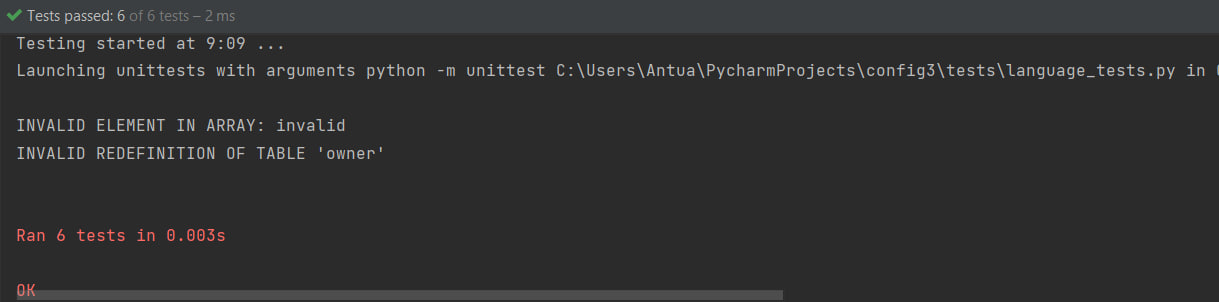
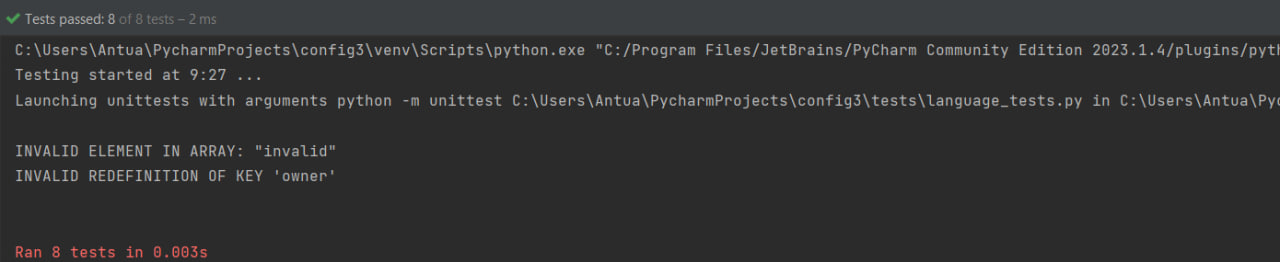
final

diff --git a/readme.md b/readme.md
@@ -8,38 +8,59 @@
 ### Используемые модули и язык программирования
 Использую язык программирования Python версии 3.10
 В качестве модулей, импортируемых в программу, использую
-1. os - для работы с путями.
-2. keyboard - для работы с клавиатурой.
-3. threading - для создания многопоточности.
+1. os - для работы с путями, проверкой существования файла
+2. keyboard - для работы с клавиатурой (учитывания зажатия ctrl+c)
+3. threading - для создания многопоточности (создания отдельного потока ввода cимволов до ctrl+c, так как цикл while фризит консоль).
 4. time - для создания задержек при получении строк от пользователя, чтобы не перегружать цп.
-5. sys - для взаимодействия c аргументами из командной строки и получения строк пользователя.
+5. sys - для взаимодействия c аргументами из командной строки и получения строк пользователя во время многопоточности.
 6. re - для работы над регулярными выражениями.
-7. pprint (функция pformat) - для красивого вида получившегося словаря. 
+7. json (dumps) - для получения красивого вида словаря в формате json
 
 ### Описание команд, функционирование программы
-Пользователь через консоль вводит параметр для программы (путь текстового файла, в который и будет записан итоговый формат), затем до ввода сочетания ctrl+d вводит данные, затем они обрабатываются и выводится результат (при некорректных данных сообщение об ошибке)
-Сам процесс был разделён на 3 этапа.
+Пользователь через консоль вводит параметр для программы (путь текстового файла, в который и будет записан итоговый формат), затем до ввода сочетания ctrl+d вводит данные, которые и будут обрабатываться программой и в конце выводится результат (при некорректных данных (критическая ошибка) соответствующее сообщение об ошибке)
+Если корректный TOML файл невозможно конвертировать в учебный язык, будет выдан полный список причин для этого c указанием проблемного места.
+Сам процесс выполнения программы был разделён на 3 этапа.
 Пробежимся по каждому:
-1. Получение строк от пользователя до нажатия сочетания клавиш(функция read_input(text) параллельно выполняется c частью main)
-2. Парсинг этих данных (функция parse(value) и parse_array(value))
-3. Перевод этих данных в учебный язык (при успешном вводе пользователя в файл). Имеется в виду обработка особенностей учебного языка, которые могут быть несовместимы с корректным TOML файлом.
+1. Получение строк от пользователя до нажатия сочетания клавиш(функция read_input(text), которая параллельно выполняется c частью main)
+2. Парсинг этих данных (функции read_input_after(text) для склеивания строк, parse(value), parse_array(value, dict) и parse_dict(value, dict) для соответствующих разрешённых структур, которые и позволяют создать вложенность)
+3. Перевод полученных данных в учебный язык (при успешном вводе пользователя в файл). Иначе пользователь получит сообщение о всех несоответствиях. Под этой задачей подразумевается обработка особенностей учебного языка, а именно: <br>
+(Имена: [_A-Z][_a-zA-Z0-9]*, <br> а
+значения выбираются из диапазона [Числа, Массивы\*, Словари**)
 
-Примечание: язык TOML это в своём роде язык таблиц, так как все данные воспринимаются как часть какой-то таблицы (по умолчанию существует корневая таблица), поэтому вполне справедливо, что результат на конфигурационном языке это один большой словарь с поправкой на его синтаксис.
-Все функции также обрабатывают случаи, когда аргументы некорректны.
+\* ( значение, значение, значение, ... )<br>
+** {<br>
+ имя = значение,<br>
+ имя = значение,<br>
+ имя = значение,<br>
+ ...<br>
+}<br>
+Объявление же переменной в учебном языке делается вот так: <br>var имя := значение<br>
+Её же вычисление ![имя]<br>
+Примечание: язык TOML это в своём роде язык таблиц, так как все данные воспринимаются как часть какой-то таблицы, поэтому вполне справедливо, что результат на учебном языке это один большой словарь с поправкой на его синтаксис в учебном языке.
+Очевидно, данная программа обрабатывает случаи, когда аргументы некорректны, когда введённые данные не соответствуют TOML.
 ### Тестирование
+Приступим к тестам! <br>
 Итак, пусть пользователь введёт в консоль следующий текст:
 ![example.jpg](example.jpg)
-Возникла ошибка - "конвертирование невозможно", так как на учебный язык невозможно перевести булевые значения, даты и строки. 
-Попытка номер 2:
-![img.png](img.png)
-Возникла ошибка - текст оформлен не в соответствии с языком TOML.
-И наконец, попытка номер 3:
+Возникла ошибка - "преобразование невозможно", так как на учебном языке значения не могут быть строками, а имена начинаться со строчных букв. 
+Исправим указанные ошибки:
+![example2.jpg](example2.jpg)
+Всё действительно так!<br>
+Допустим какую-то ошибку в синтаксисе TOML:
 ![example3.jpg](example3.jpg)
-Следующий текст запишется в файл с окончанием testfile.txt:
-![example4.jpg](example4.jpg)
-Всё так, как и должно быть!
+Это действительно так, словари (в двух своих формах) могут быть записано только в одной строчке), в то время как: 
+![example4.jpg](example4.jpg)<br>
+Да, увы, этот синтаксис не так уж и прост. Например, нельзя переопределять уже объявленные элементы. <br>
+Протестируем размер данных побольше, воспользуемся первым способом записи таблиц(словарей), точечными ключами, вспомним про комментарии:
+<br>Я решил взять пример с https://toml.io/en/
+![example5.jpg](example5.jpg)
+30 ошибок конвертирования - да, плоховатый пример под нашу задачу я подобрал.
+Исправим его, и добавим комментарий в одной линии с текстом:
+![example6.jpg](example6.jpg)
+На изображении представлен ввод данных в середине в консоль (левый угол) и результат в файле (правый угол).
+<br>Результат ровно такой, какой и должен быть!
 ### Тесты
-В папке "tests" хранится файл с расширением .py, содержащий в себе модуль тестирования функций parse(value) и parse_array(value)
+В папке "tests" хранится файл с расширением .py, содержащий в себе модуль тестирования функций parse(value), parse_array(value, dict), parse_dict(value, dict)
 ![testirovanie.jpg](testirovanie.jpg)
 Все они, как видно, из рисунка, пройдены успешно.
 ### Url репозитория.
